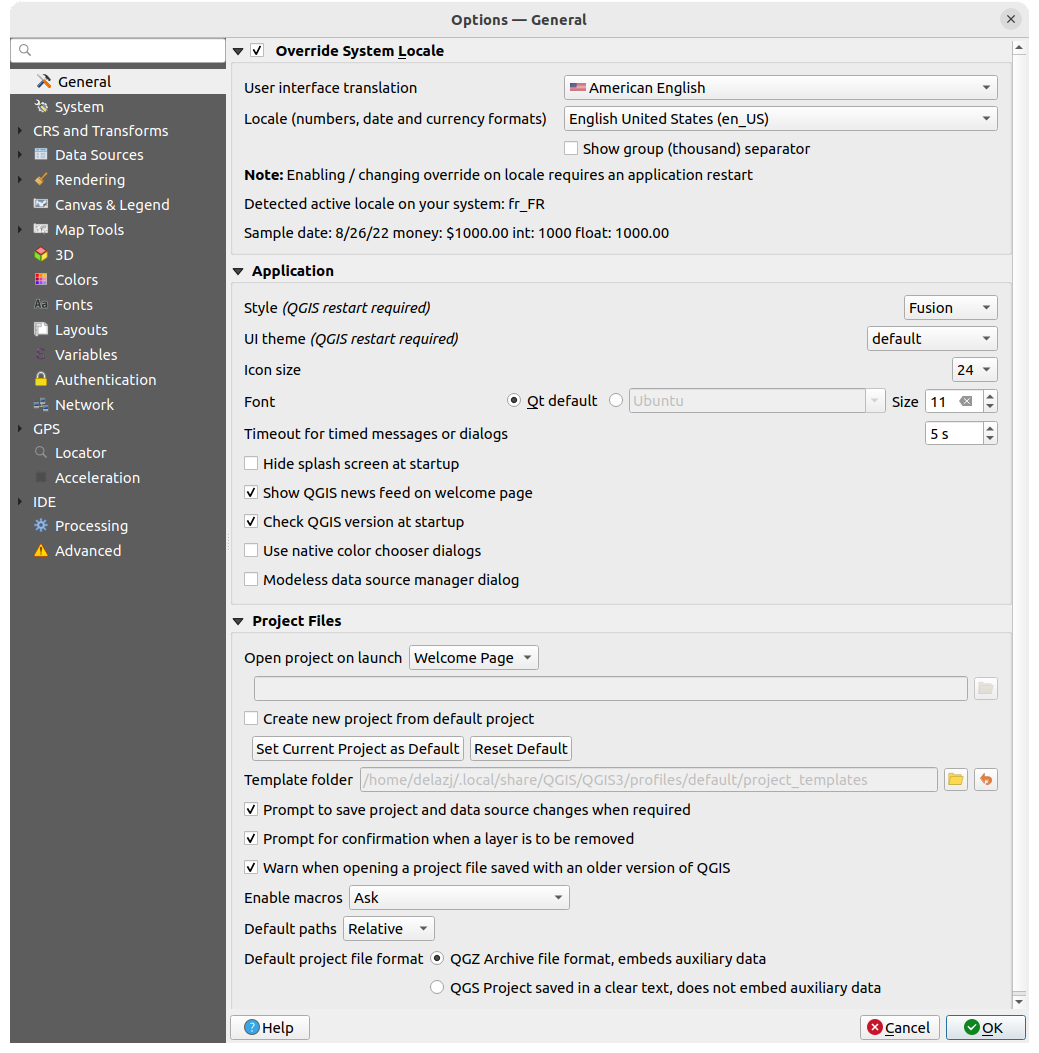
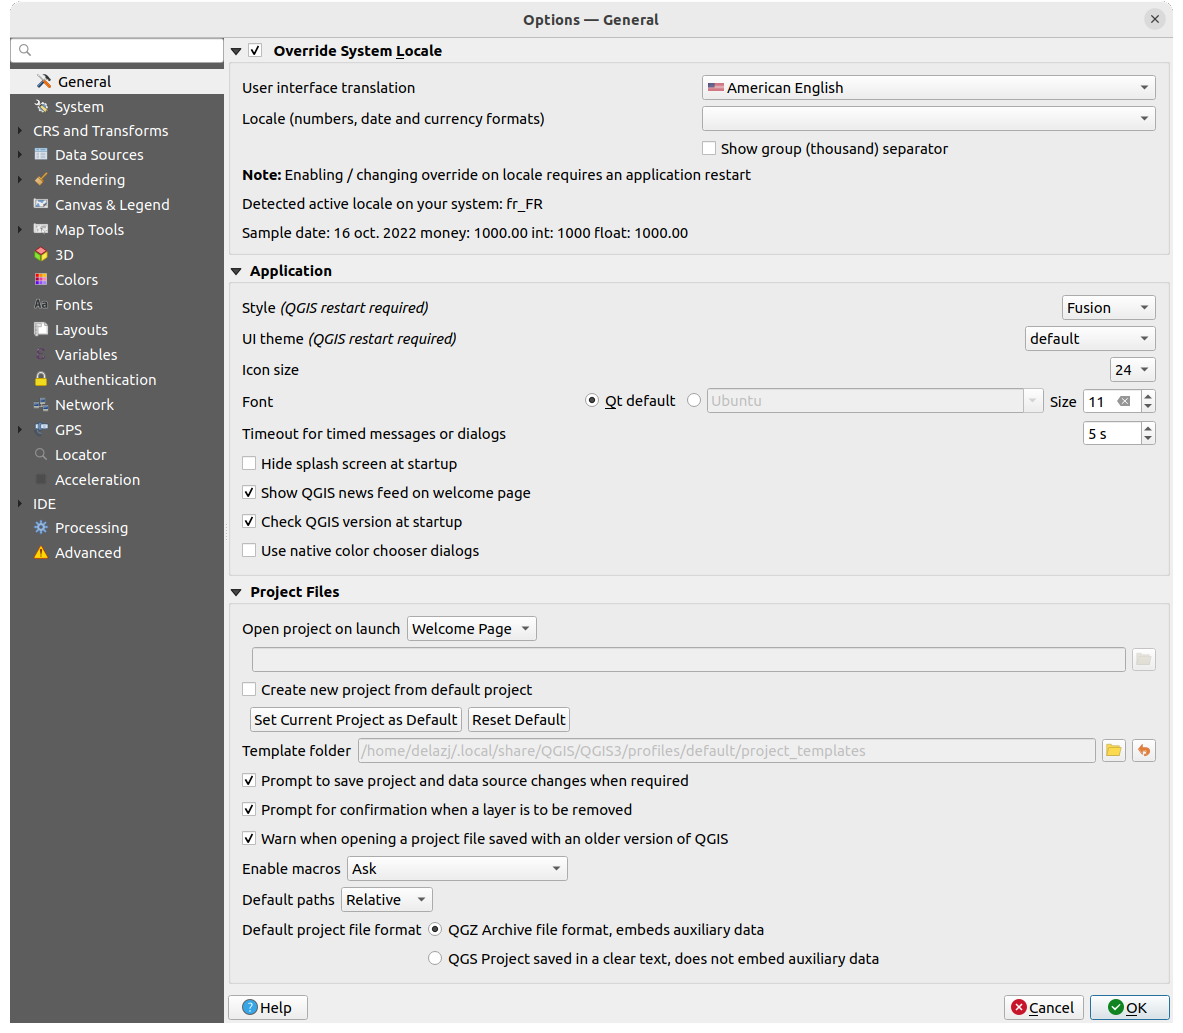
Data Source Manager dialog is modeless
fixes #7772

diff --git a/docs/user_manual/managing_data_source/opening_data.rst b/docs/user_manual/managing_data_source/opening_data.rst
@@ -62,12 +62,9 @@ However, all these tools point to a unique dialog, the :guilabel:`Data Source
 Manager` dialog, that you can open with the |dataSourceManager|
 :sup:`Open Data Source Manager` button, available on the :guilabel:`Data Source
 Manager Toolbar`, or by pressing :kbd:`Ctrl+L`.
-The :guilabel:`Data Source Manager` dialog(:numref:`figure_datasource_manager`) offers a unified interface to open
-vector or raster file-based data as well as databases or web services supported
-by QGIS.
-It can be set modal or not with the |checkbox|
-:guilabel:`Modeless data source manager dialog`
-in the :menuselection:`Settings --> Options --> General` menu.
+The :guilabel:`Data Source Manager` dialog (:numref:`figure_datasource_manager`)
+offers a unified interface to open file-based data as well as databases or
+web services supported by QGIS.
 
 
 .. _figure_datasource_manager:

diff --git a/docs/user_manual/introduction/qgis_configuration.rst b/docs/user_manual/introduction/qgis_configuration.rst
@@ -103,9 +103,6 @@ displayed at the bottom of the frame.
   if a newer version is released
 * |unchecked| :guilabel:`Use native color chooser dialogs`
   (see :ref:`color-selector`)
-* |unchecked| :guilabel:`Modeless data source manager dialog` to keep the
-  :ref:`data source manager <datasourcemanager>` dialog opened and allow
-  interaction with QGIS interface while adding layers to project
 
 
 .. _projectfiles_options:
